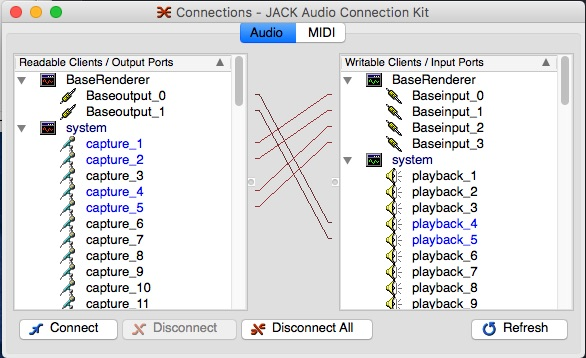
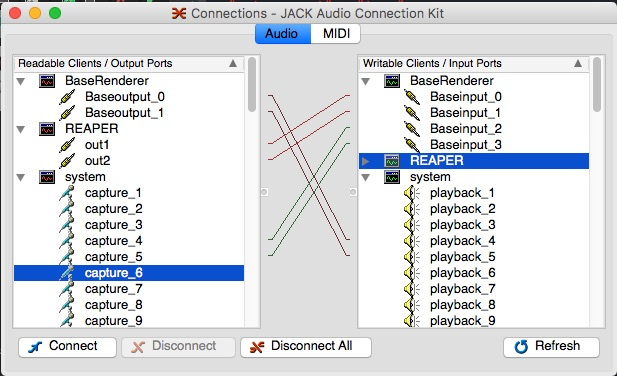
before merging

diff --git a/src/libaudiointerfaces/jack_interface.cpp b/src/libaudiointerfaces/jack_interface.cpp
@@ -155,11 +155,12 @@ namespace audiointerfaces
     //            config.loadPortConfigJson(config.mPortJSONConfig, mNumCaptureChannels, mNumPlaybackChannels);
     
     if(!config.mPortJSONConfig.empty()){
-      boost::property_tree::ptree ptype;
-      ptype = config.mPortJSONConfig.get_child("capture");
-      config.loadPortConfig(ptype, config.mInExtClientName, config.mCapturePortNames, mInExternalPortNames, mNumCaptureChannels, config.mInAutoConnect);
-      ptype = config.mPortJSONConfig.get_child("playback");
-      config.loadPortConfig(ptype, config.mOutExtClientName, config.mPlaybackPortNames, mOutExternalPortNames, mNumPlaybackChannels, config.mOutAutoConnect);
+      boost::property_tree::ptree ptree;
+      
+      ptree = config.mPortJSONConfig.get_child("capture");
+      config.loadPortConfig(ptree, config.mInExtClientName, config.mCapturePortNames, mInExternalPortNames, mNumCaptureChannels, config.mInAutoConnect, "in_");
+      ptree = config.mPortJSONConfig.get_child("playback");
+      config.loadPortConfig(ptree, config.mOutExtClientName, config.mPlaybackPortNames, mOutExternalPortNames, mNumPlaybackChannels, config.mOutAutoConnect, "out_");
     }
     if(!config.mClientName.empty()) mClientName = config.mClientName;
     else mClientName = "JackClient";
@@ -167,14 +168,20 @@ namespace audiointerfaces
     
     std::sort(config.mCapturePortNames.begin(),config.mCapturePortNames.end());
     std::sort(config.mPlaybackPortNames.begin(),config.mPlaybackPortNames.end());
+    //    for( auto it = config.mCapturePortNames.begin(); it != config.mCapturePortNames.end(); ++it ) {
+    //      std::cout<<" "<<*it<<std::endl;
+    //    }
     if(std::adjacent_find(config.mCapturePortNames.begin(),config.mCapturePortNames.end())!=config.mCapturePortNames.end())
     {
       std::cout<<"mCapPorts: "<< mCapturePortNames.size()<<" mCapChan: "<< mNumCaptureChannels<< std::endl;
-      throw std::invalid_argument( "JackInterface: Duplicate port names are not allowed, as well as overlapping indices" );
+      throw std::invalid_argument( "JackInterface: Duplicate capture port names are not allowed, as well as overlapping indices" );
     }
+    //    for( auto it = config.mPlaybackPortNames.begin(); it != config.mPlaybackPortNames.end(); ++it ) {
+    //      std::cout<<" "<<*it<<std::endl;
+    //    }
     if(std::adjacent_find(config.mPlaybackPortNames.begin(),config.mPlaybackPortNames.end())!=config.mPlaybackPortNames.end())
     {
-      throw std::invalid_argument( "JackInterface: Duplicate port names are not allowed, as well as overlapping indices" );
+      throw std::invalid_argument( "JackInterface: Duplicate playback port names are not allowed, as well as overlapping indices" );
     }
     
     
@@ -301,9 +308,10 @@ namespace audiointerfaces
   {
     for( std::size_t captureIdx(0); captureIdx < mNumCaptureChannels; ++captureIdx )
     {
+//      std::cout<<"REGCAPT "<<mCapturePortNames[captureIdx].substr(mCapturePortNames[captureIdx].find(":") + 1).c_str()<<std::endl;
       //                std::cout<< "REGISTERING PORTNAME: "<<mCapturePortNames[captureIdx].c_str()<<std::endl;
       jack_port_t * newPort = jack_port_register( mClient,
-                                                 mCapturePortNames[captureIdx].c_str(),
+                                                 mCapturePortNames[captureIdx].substr(mCapturePortNames[captureIdx].find(":") + 1).c_str(),
                                                  JACK_DEFAULT_AUDIO_TYPE,
                                                  JackPortIsInput,
                                                  0 /* buffer size is ignored for built-in types */ );
@@ -319,8 +327,9 @@ namespace audiointerfaces
     }
     for( std::size_t playbackIdx(0); playbackIdx < mNumPlaybackChannels; ++playbackIdx )
     {
+//      std::cout<<"REGPLAY "<<mPlaybackPortNames[playbackIdx].substr(mPlaybackPortNames[playbackIdx].find(":") + 1).c_str()<<std::endl;
       jack_port_t * newPort = jack_port_register( mClient,
-                                                 mPlaybackPortNames[playbackIdx].c_str(),
+                                                 mPlaybackPortNames[playbackIdx].substr(mPlaybackPortNames[playbackIdx].find(":") + 1).c_str(),
                                                  JACK_DEFAULT_AUDIO_TYPE,
                                                  JackPortIsOutput,
                                                  0 /* buffer size is ignored for built-in types */ );
@@ -334,6 +343,9 @@ namespace audiointerfaces
         mPlaybackPorts[playbackIdx] = newPort;
       }
     }
+    
+    
+    
   }
   
   void JackInterface::Impl::unregisterPorts()
@@ -382,11 +394,11 @@ namespace audiointerfaces
       
       for( std::size_t captureIdx(0); captureIdx < mNumCaptureChannels; ++captureIdx )
       {
-        char const * name = (mClientName +":"+ mCapturePortNames[captureIdx]).c_str();
+        char const * name = (mCapturePortNames[captureIdx]).c_str();
         //                std::cout<<ports[captureIdx] << " ----> "<<name << std::endl;
         
-        char const * nameExt = (mInExtClientName +":"+ mInExternalPortNames[captureIdx]).c_str();
-        //                    std::cout<<nameExt << " ----> "<<name << std::endl;
+        char const * nameExt = (mInExternalPortNames[captureIdx]).c_str();
+        std::cout<<nameExt << " ----> "<<name << std::endl;
         if (jack_connect (mClient, nameExt, name)){
           fprintf (stderr, "cannot connect input ports\n");
         }
@@ -408,11 +420,11 @@ namespace audiointerfaces
       
       for( std::size_t playbackIdx(0); playbackIdx < mNumPlaybackChannels; ++playbackIdx )
       {
-        char const * name = (mClientName +":"+ mPlaybackPortNames[playbackIdx]).c_str();
+        char const * name = (mPlaybackPortNames[playbackIdx]).c_str();
         //                std::cout<<ports[playbackIdx] << " <---- "<<name << std::endl;
-        char const * nameExt = (mOutExtClientName +":"+ mOutExternalPortNames[playbackIdx]).c_str();
+        char const * nameExt = (mOutExternalPortNames[playbackIdx]).c_str();
         
-        //                    std::cout<<nameExt << " ----> "<<name << std::endl;
+        std::cout<<nameExt << " ----> "<<name << std::endl;
         
         if (jack_connect (mClient, name, nameExt)) {
           fprintf (stderr, "cannot connect output ports\n");
@@ -765,7 +777,7 @@ namespace audiointerfaces
     
   }
   
-  void JackInterface::Config::loadPortConfig(boost::property_tree::ptree tree, std::string & extClientName, std::vector< std::string > & portNames, std::vector< std::string > & extPortNames, int numPorts, bool & autoConn){
+  void JackInterface::Config::loadPortConfig(boost::property_tree::ptree tree, std::string & extClientName, std::vector< std::string > & portNames, std::vector< std::string > & extPortNames, int numPorts, bool & autoConn,  std::string porttype){
     if(!tree.empty()){
       boost::optional<bool> autoConnect;
       boost::optional<std::string> baseName;
@@ -798,24 +810,27 @@ namespace audiointerfaces
           visr::pml::IndexSequence const inIndices( *indicesStr );
           std::size_t const inNumEntries = inIndices.size( );
           //                        portNames.resize( inNumEntries );
-          
+          if(inNumEntries > numPorts)
+          {
+            throw std::invalid_argument( "JackInterface: the number of "+porttype+" ports addressed with indices cannot be greater than the requested number of "+porttype+" ports" );
+          }
           for( std::size_t entryIdx( 0 ) ; entryIdx < inNumEntries; ++entryIdx, ++globalIdx )
           {
             std::stringstream str;
-            str << *baseName << inIndices[entryIdx];
+            str << mClientName <<":"<< *baseName << inIndices[entryIdx];
             //                            std::cout<<"PORTNAMES: "<<str.str()<<" GLOB: "<<globalIdx<<std::endl;
             
             portNames[globalIdx] = str.str();
           }
         }else{
           if(!baseName){
-            baseName ="visr" ;
+            baseName ="visr_"+porttype;
           }
           
           for(std::size_t entryIdx( 0 ); entryIdx < numPorts; ++entryIdx, ++globalIdx)
           {
             std::stringstream str;
-            str << *baseName << entryIdx;
+            str << mClientName <<":"<< *baseName << entryIdx;
             portNames[globalIdx] = str.str();
           }
         }
@@ -827,10 +842,11 @@ namespace audiointerfaces
           extIndicesStr = extPort.get_optional<std::string>( "indices" );
           //                                        std::cout<<"TREEDATA: "<< ", "<<tree.data()<<std::endl;
           if(!extClient){
-            throw std::invalid_argument( "JackInterface: if autoconnect is true you must specify external client's name" );
+            extClient="system";
           }
           if(!extBaseName){
-            throw std::invalid_argument( "JackInterface: if autoconnect is true you must specify external client's port basename" );
+            if(porttype=="in_") extBaseName="capture_";
+            else extBaseName="playback_";
           }
           extClientName = *extClient;
           if(extIndicesStr){
@@ -841,7 +857,7 @@ namespace audiointerfaces
             for( std::size_t extEntryIdx( 0 ); extEntryIdx < extInNumEntries; ++extEntryIdx,++extGlobalIdx )
             {
               std::stringstream str;
-              str << *extBaseName << extInIndices[extEntryIdx];
+              str << extClientName <<":"<< *extBaseName << extInIndices[extEntryIdx];
               //                               std::cout<<"EXTPORTNAMES: "<<str.str()<<" GLOB: "<<extGlobalIdx<<std::endl;
               extPortNames[extGlobalIdx] = str.str();
             }
@@ -850,18 +866,20 @@ namespace audiointerfaces
             for( std::size_t extEntryIdx( 0 ); extEntryIdx < numPorts; ++extEntryIdx,++extGlobalIdx )
             {
               std::stringstream str;
-              str << *extBaseName << extEntryIdx;
+              str << extClientName <<":"<< *extBaseName << extEntryIdx;
               extPortNames[extGlobalIdx] = str.str();
             }
           }
         }
       }
-      
-      //                for(boost::property_tree::ptree::value_type &pconf : tree.get_child("externalport")){
-      //                    //                    std::cout<<pconf.first<< ": "<<pconf.second.data()<<std::endl;
-      //
-      //                }
-      
+      if(globalIdx != numPorts)
+      {
+        throw std::invalid_argument( "JackInterface: the total number of "+porttype+" ports addressed with indices must be equal to the requested number of "+porttype+" ports" );
+      }
+      if(extGlobalIdx != numPorts)
+      {
+        throw std::invalid_argument( "JackInterface: the total number of external "+porttype+" ports addressed with indices must be equal to the requested number of external "+porttype+" ports" );
+      }
     }
   }
   

diff --git a/src/libaudiointerfaces/test/audio_interface_configuration.cpp b/src/libaudiointerfaces/test/audio_interface_configuration.cpp
@@ -80,8 +80,11 @@ namespace test
     AudioInterface::Configuration baseConfig(numberOfSources,numberOfLoudspeakers,samplingRate,periodSize);
     std::cout<<type<<" Specific Configuration: \n"<<conf<<std::endl;
     std::unique_ptr<AudioInterface> audioInterface = AudioInterfaceFactory::create( type, baseConfig, conf);
-    
-    
+    std::vector <std::string> audioifcs = AudioInterfaceFactory::audioInterfacesList();
+    std::cout<<"AVAILABLE INTERFACES: ";
+    for (auto i = audioifcs.begin(); i != audioifcs.end(); ++i)
+      std::cout<< *i << ' ';
+    std::cout<<std::endl;
     /********************************* SETTING TOP LEVEL COMPONENT AND ITS CALLBACK  **********************************/
     SignalFlowContext context( periodSize, samplingRate );
     Feedthrough topLevel( context, "feedthrough" );
@@ -121,9 +124,13 @@ namespace test
     //                init("Jack",defSpecConfigJack);
     
     // alternative way, take configuration from file
+    std::string path1 = "isvr/audioIfc/jackDefConf.json" ;
+    std::string path2 = "isvr/audioIfc/jackSimpleConf.json";
+    std::string path3 = "isvr/audioIfc/jackComplexConf.json";
+    
     std::string specConf;
     boost::filesystem::path const configDir( CMAKE_SOURCE_DIR "/config" );
-    boost::filesystem::path bfile = configDir / boost::filesystem::path( "isvr/audioIfc/jackDefConf.json" );
+    boost::filesystem::path bfile = configDir / boost::filesystem::path( path3 );
     
     BOOST_CHECK_MESSAGE( exists(bfile), "Audio Interface configuration json file does not exist." );
     
@@ -147,6 +154,8 @@ namespace test
     std::string const defSpecConfigPortAudio = "{\"sampleformat\": \"float32Bit\", \"interleaved\": \"false\", \"hostapi\" : \"default\"}";
     
     std::string specConf;
+    
+    
     /* boost::filesystem::path const configDir( CMAKE_SOURCE_DIR "/config" );
      boost::filesystem::path bfile = configDir / boost::filesystem::path( "isvr/audioIfc/portAudioDefConf.json" );*/
     boost::filesystem::path const configDir( CMAKE_SOURCE_DIR "/config" );

diff --git a/src/libaudiointerfaces/audio_interface_factory.hpp b/src/libaudiointerfaces/audio_interface_factory.hpp
@@ -22,6 +22,7 @@
 #include <map>
 #include <memory>
 #include <string>
+#include <vector>
 
 namespace visr
 {
@@ -37,8 +38,22 @@ namespace visr
       AudioInterfaceFactory
     {
     public:
+      /**
+       ** Creates an istance of the specified audio interface. This is done at runtime, following the factory pattern.
+       * @param interfaceName Identifier to specify the audio interface to instantiate
+       * @param baseConfig Configuration parameters which are common to all audio interfaces
+       * @param config Configuration parameters which are specific for the given audio interface
+       */
         static std::unique_ptr<audiointerfaces::AudioInterface> create(std::string const & interfaceName, audiointerfaces::AudioInterface::Configuration const & baseConfig, std::string const & config);
-        
+      
+      /**
+       ** Returns alist of all the instantiable audio interfaces.
+       */
+      static std::vector<std::string> audioInterfacesList();
+      
+      /**
+       ** Registers a new instantiable audio interface in the factory.
+       */
         template< class ConcreteAudioInterface >
         static void registerAudioInterfaceType( std::string const & interfaceName );
         
@@ -95,18 +110,6 @@ namespace visr
     {
         creatorTable().insert( std::make_pair( interfaceName, TCreator<ConcreteAudioInterface>() ) );
     }
-//    
-//    template< class TypedParameterType >
-//    void AudioInterfaceFactory::registerParameterType()
-//    {
-//        registerParameterType<TypedParameterType>( TypedParameterType::staticType() );
-//    }
-//    
-    
-    // The macro does not work for multiple uses in the same .cpp file
-    // (multiple definitions of 'maker'), stringization of names difficult
-    // because of template brackets and namespace names.
-    // #define REGISTER_PARAMETER( type, id ) namespace { static ParameterFactory::Registrar< type > maker( id ); }
     
 } // namespace visr
 

diff --git a/src/libaudiointerfaces/audio_interface_factory.cpp b/src/libaudiointerfaces/audio_interface_factory.cpp
@@ -18,20 +18,35 @@ namespace visr
     : mCreateFunction( fcn )
     {
     }
-    
     std::unique_ptr<audiointerfaces::AudioInterface >
     AudioInterfaceFactory::Creator::create( audiointerfaces::AudioInterface::Configuration const & baseConfig, std::string const & config ) const
     {
         return std::unique_ptr< audiointerfaces::AudioInterface >( mCreateFunction( baseConfig, config ) );
     }
-    
+  /**
+   ** Returns alist of all the instantiable audio interfaces.
+   */
+   std::vector<std::string> AudioInterfaceFactory::audioInterfacesList(){
+     std::vector <std::string> audioifcs;
+     for( CreatorTable::const_iterator it = creatorTable().begin(); it != creatorTable().end(); ++it ) {
+       audioifcs.push_back( it->first );
+     }
+     return audioifcs;
+  }
+  
     /*static*/ AudioInterfaceFactory::CreatorTable &
     AudioInterfaceFactory::creatorTable()
     {
         static AudioInterfaceFactory::CreatorTable sCreatorTable;
         return sCreatorTable;
     }
-    
+
+  /**
+   ** Creates an istance of the specified audio interface. This is done at runtime, following the factory pattern.
+   * @param interfaceName Identifier to specify the audio interface to instantiate
+   * @param baseConfig Configuration parameters which are common to all audio interfaces
+   * @param config Configuration parameters which are specific for the given audio interface
+   */
     /*static*/ std::unique_ptr<audiointerfaces::AudioInterface>
     AudioInterfaceFactory::create(std::string const & interfaceName, audiointerfaces::AudioInterface::Configuration const & baseConfig, std::string const & config)
     {

diff --git a/src/libaudiointerfaces/jack_interface.hpp b/src/libaudiointerfaces/jack_interface.hpp
@@ -42,7 +42,7 @@ namespace audiointerfaces
       }
       
       void loadPortConfigJson(boost::property_tree::ptree tree, int numCapt, int numPlay );
-      void loadPortConfig(boost::property_tree::ptree tree, std::string & extClient, std::vector< std::string > &portNames, std::vector< std::string > & extPortNames, int numPorts, bool & autoConn );
+      void loadPortConfig(boost::property_tree::ptree tree, std::string & extClient, std::vector< std::string > &portNames, std::vector< std::string > & extPortNames, int numPorts, bool & autoConn, std::string porttype);
       
       void setCapturePortNames( std::string const baseName,
                                std::size_t startIndex,
